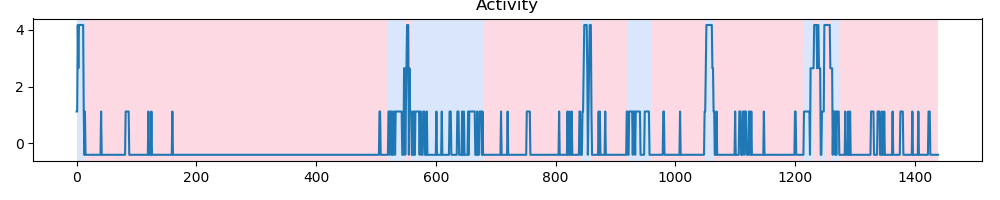
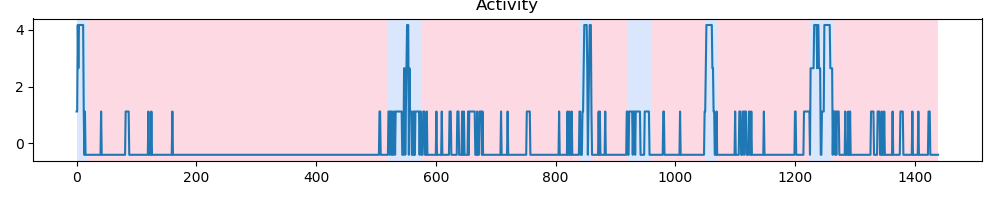
Adding changes for general changepoint

Changed region(s): [[0.403, 0.09, 0.496, 0.81], [0.806, 0.09, 0.837, 0.81]]

diff --git a/src/change_point_detection.py b/src/change_point_detection.py
@@ -40,7 +40,6 @@ def main():
 	steps_vals = steps_vals - np.mean(steps_vals)
 	steps_vals = steps_vals / np.std(steps_vals)
 
-
 	all_vals = np.array(list(zip(heart_beat_vals, calories_vals, steps_vals))).reshape(-1, 3)
 	print(all_vals.shape)
 	heart_beat_vals = np.array(heart_beat_vals)
@@ -48,35 +47,38 @@ def main():
 	activity_vals = np.array(activity_vals)
 	steps_vals = np.array(steps_vals)
 
-	algo = rpt.Pelt(model="l2", min_size=10).fit(heart_beat_vals)
+	model = 'l2'
+	min_size_val = 20
+
+	algo = rpt.Pelt(model=model, min_size=min_size_val).fit(heart_beat_vals)
 	result = algo.predict(pen=10)
 	rpt.display(heart_beat_vals, result)
 	plt.gcf().axes[0].set_title('Heart Beat')
 	plt.savefig('../data/plots/changepoint/heart.png')
 	# plt.show()
 
-	algo = rpt.Pelt(model="l2", min_size=10).fit(calories_vals)
+	algo = rpt.Pelt(model=model, min_size=min_size_val).fit(calories_vals)
 	result = algo.predict(pen=10)
 	rpt.display(calories_vals, result)
 	plt.gcf().axes[0].set_title('Calories')
 	plt.savefig('../data/plots/changepoint/calories.png')
 	# plt.show()
 
-	algo = rpt.Pelt(model="l2", min_size=10).fit(steps_vals)
+	algo = rpt.Pelt(model=model, min_size=min_size_val).fit(steps_vals)
 	result = algo.predict(pen=10)
 	rpt.display(steps_vals, result)
 	plt.gcf().axes[0].set_title('Steps')
 	plt.savefig('../data/plots/changepoint/steps.png')
 	# plt.show()
 
-	algo = rpt.Pelt(model="l2", min_size=10).fit(activity_vals)
+	algo = rpt.Pelt(model=model, min_size=min_size_val).fit(activity_vals)
 	result = algo.predict(pen=10)
 	rpt.display(activity_vals, result)
 	plt.gcf().axes[0].set_title('Activity')
 	plt.savefig('../data/plots/changepoint/activity.png')
 	# plt.show()
 
-	algo = rpt.Pelt(model="l2", min_size=10).fit(all_vals)
+	algo = rpt.Pelt(model=model, min_size=min_size_val).fit(all_vals)
 	result = algo.predict(pen=10)
 	rpt.display(all_vals, result)
 	plt.gcf().axes[0].set_title('Heart Rate')
